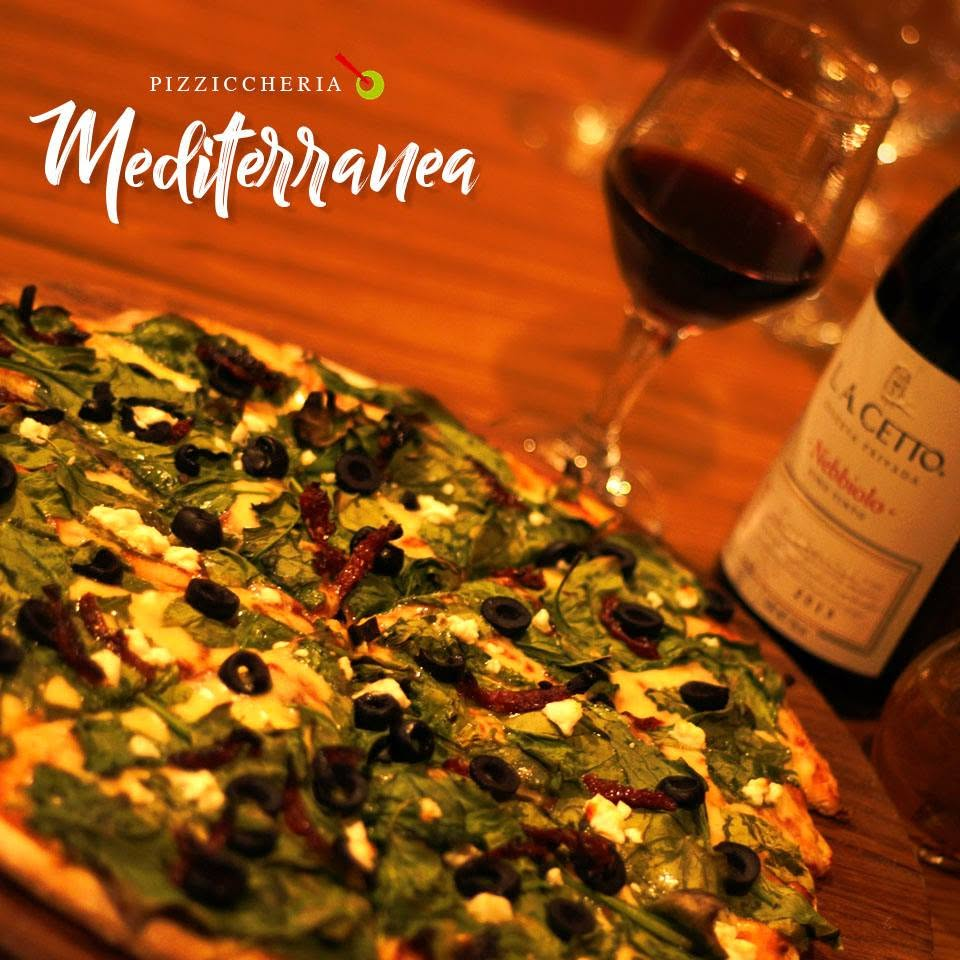
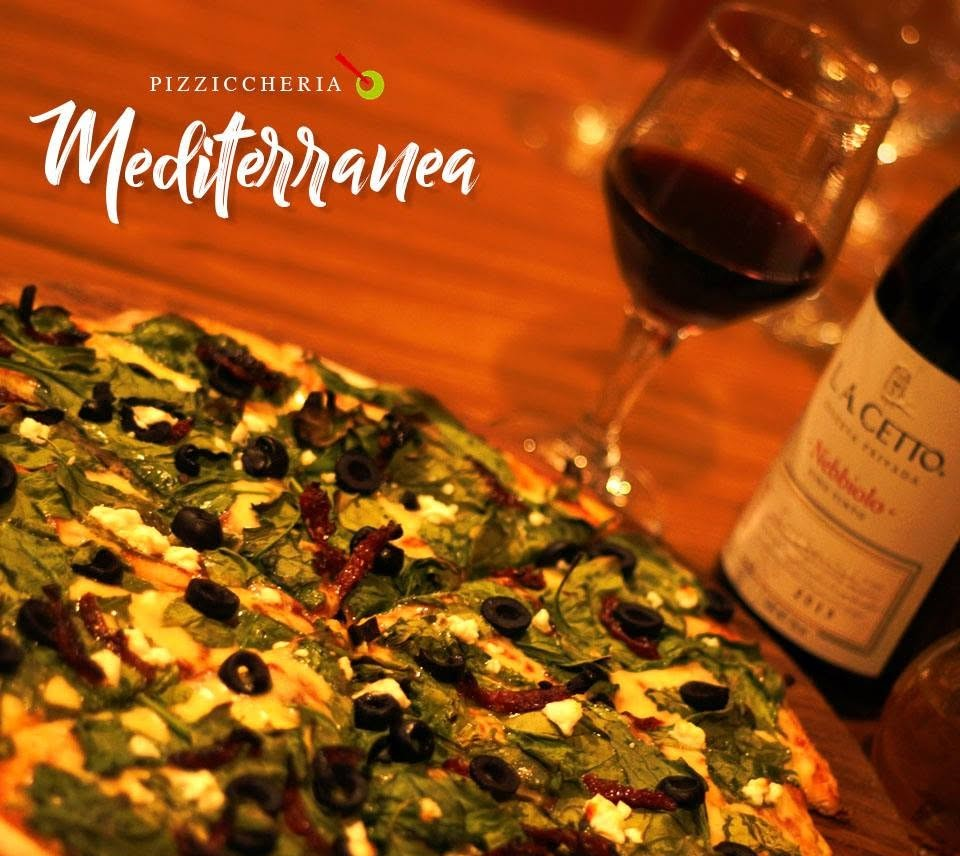
Landing Page para Pizzería

diff --git a/index.html b/index.html
@@ -257,7 +257,7 @@
             <div class="col-md-6 col-lg-4">
                 <article class="specialty-card">
 
-                    <img src="assets/img/pizza2.jpg"
+                    <img src="assets/img/principal.jpg"
                          alt="Pizza Carbonara"
                          class="img-fluid">
 
@@ -359,7 +359,7 @@
             </article>
 
             <article class="gallery-item gallery-tall">
-                <img src="assets/img/galeria/galeria-05.jpg" alt="Producto destacado de la pizzería">
+                <img src="assets/img/galeria/galeria-09.jpg" alt="Producto destacado de la pizzería">
             </article>
 
             <article class="gallery-item">
@@ -371,7 +371,7 @@
             </article>
 
             <article class="gallery-item gallery-wide">
-                <img src="assets/img/galeria/galeria-08.jpg" alt="Experiencia gastronómica en la pizzería">
+                <img src="assets/img/galeria/galeria-18.jpg" alt="Experiencia gastronómica en la pizzería">
             </article>
 
         </div>

diff --git a/assets/css/style.css b/assets/css/style.css
@@ -1,7 +1,7 @@
 :root {
     --color-dark: #0f0f0f;
     --color-red: #c62828;
-    --color-green: #8bc34a;
+    --color-green: #6F7331;
     --color-white: #ffffff;
 }
 /*parte del navbar*/
@@ -408,6 +408,8 @@ body {
     width: 100%;
     height: 100%;
     object-fit: cover;
+    object-position: top center;
+    border-radius: .5rem;
     transition: transform .4s ease;
 }
 